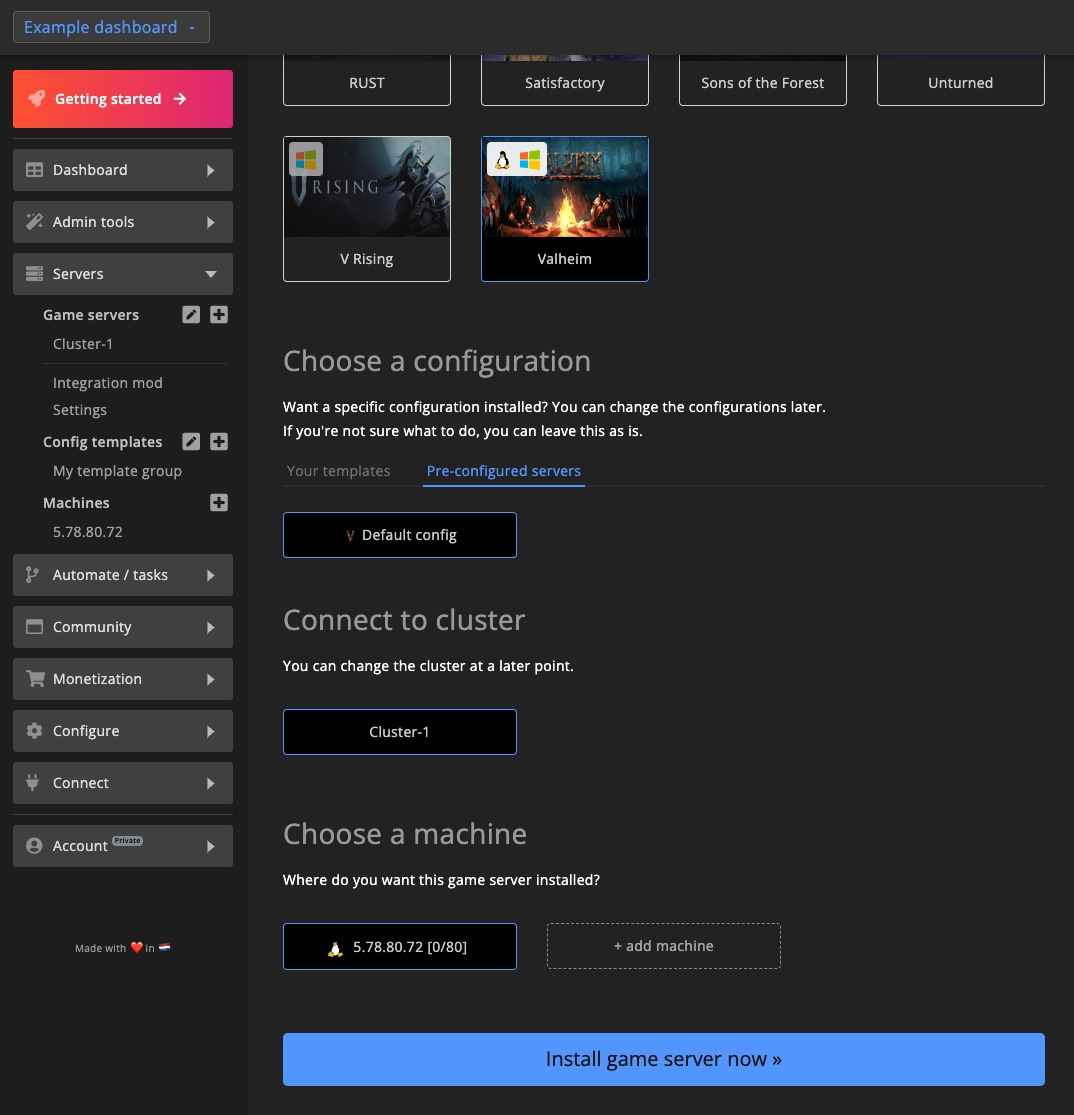
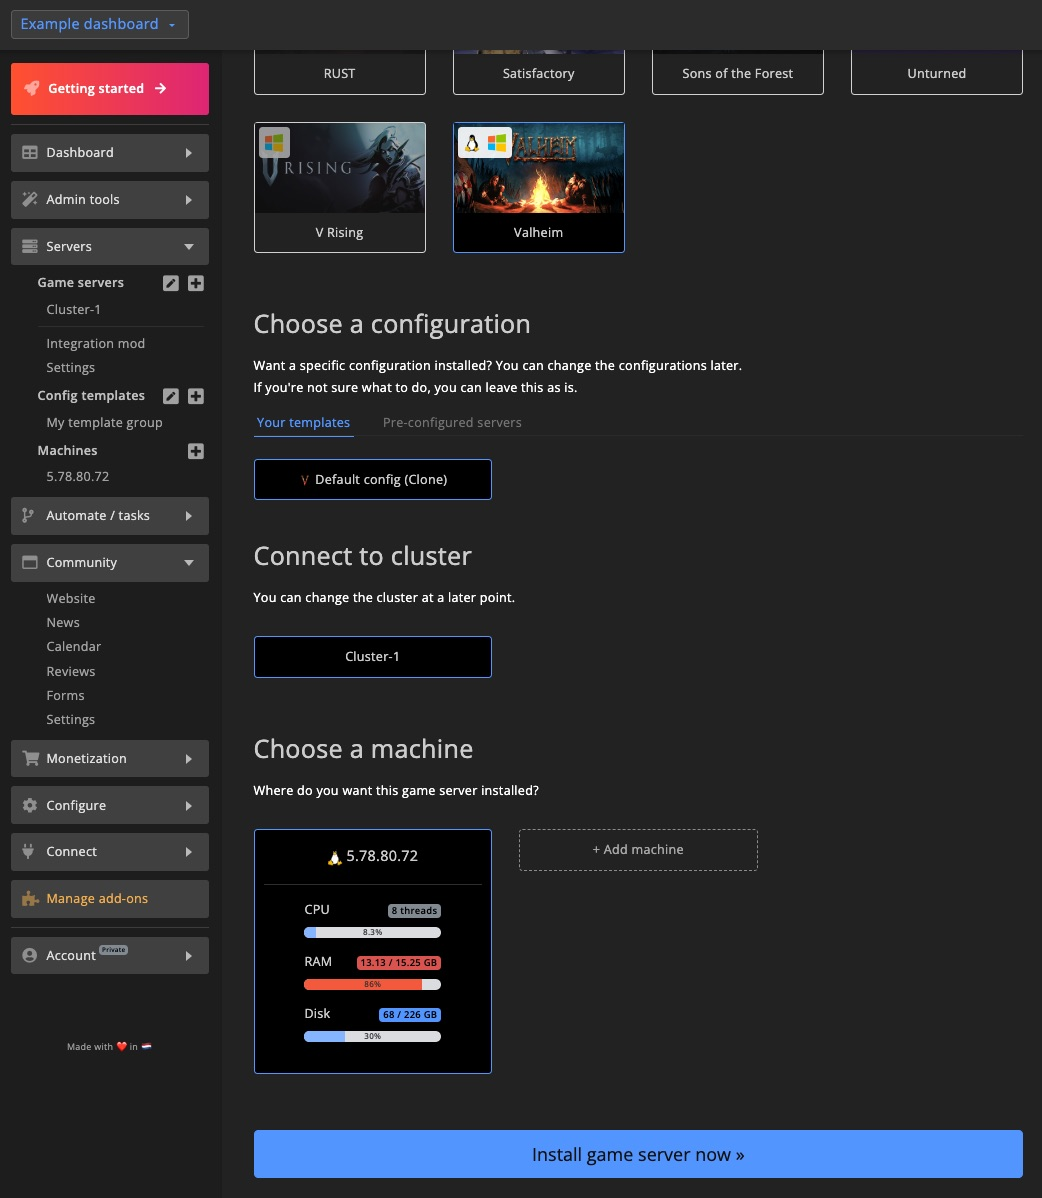
machine updates based on latest QoL update

diff --git a/Documentation/docs/dashboard/machines/getting_started.md b/Documentation/docs/dashboard/machines/getting_started.md
@@ -7,56 +7,37 @@ Learn what settings DediConnect comes with and how to install game servers and s
 
 [Go to Machines >](https://dash.gameserverapp.com/machine)
 
+![Machine overview](/img/dashboard/machines/getting_started/machine_overview.jpg)
+
 :::caution How to connect a machine
 Check out the "Install & Connect" section to [learn how to connect a machine](/getting_started/dediconnect/getting_started).
 :::
 
+
+## Machine basics
+Choose between a `Block` and `Table` view for the Machine overview page. 
+
+![Machine overview - table-mode](/img/dashboard/machines/getting_started/machine_overview_table.jpg)
+
+### Resource monitoring
+Monitor resources like CPU load and RAM & Disk usage from the machine overview page as well as the Game servers & services page.
+
+![Machine overview 1](/img/dashboard/machines/getting_started/machine_details_1.jpg)
+![Machine overview 2](/img/dashboard/machines/getting_started/machine_details_2.jpg)
+
 :::info Locating the `Machine ID`
 Please include the `machine ID` when you need to contact support about the machine. It's located in the __top-right corner__ on the machine settings page.
-
 
 ![Machine ID](/img/dashboard/machines/getting_started/machine_id.jpg)
 :::
 
-## Install game servers & services
-Navigate to the machine settings and click the `Actions` button in the __top-right corner__.
-
-![Install game server & services on machine](/img/dashboard/machines/getting_started/install_gameserver_service.jpg)
-
-
-### Game servers
-Select the game, [Config template](/dashboard/game_servers/config_templates) and [Cluster](/dashboard/game_servers/clusters) for the new game server. From there you can select which machine the game server is installed on.
-
-:::info OS support
-Not all games are available on every Operating System (OS). You can see which OS's are supported per game.
-
-![OS support per game](/img/dashboard/machines/getting_started/game_os_support.jpg)
-:::
-
-![Install game server on machine 1](/img/dashboard/machines/getting_started/install_gameserver_1.jpg)
-
-Click `Install game server now` to install the new game server on the selected machine.
-
-![Install game server on machine 2](/img/dashboard/machines/getting_started/install_gameserver_2.jpg)
-
-[Learn how to configure & manage game servers >](/dashboard/game_servers/getting_started)
-
-### Services
-Depending on the Operating System (OS) of the machine, you can install a variety of services.
-
-![Install service on machine 1](/img/dashboard/machines/getting_started/install_service_1.jpg)
-
-After clicking a service, DediConnect will begin installing the service.
-
-![Install service on machine 2](/img/dashboard/machines/getting_started/install_service_2.jpg)
-
-![Install service on machine 3](/img/dashboard/machines/getting_started/install_service_3.jpg)
-
-[Learn more about the available services >](/dashboard/machines/services)
-
 ## Game server controls
+Use the controls on the sidebar to the right to manage one or more game servers hosted on the machine.
 
-[//]: # (todo show how to use action sidebar to mass-update etc)
+![Machine - game server controls 1](/img/dashboard/machines/getting_started/gameserver_controls_1.jpg)
+
+![Machine - game server controls 2](/img/dashboard/machines/getting_started/gameserver_controls_2.jpg)
+
 
 ## Activity
 All activity for a machine, either initiated by an admin or the DediConnect system is reported to the activity page. Issues are also reported here.
